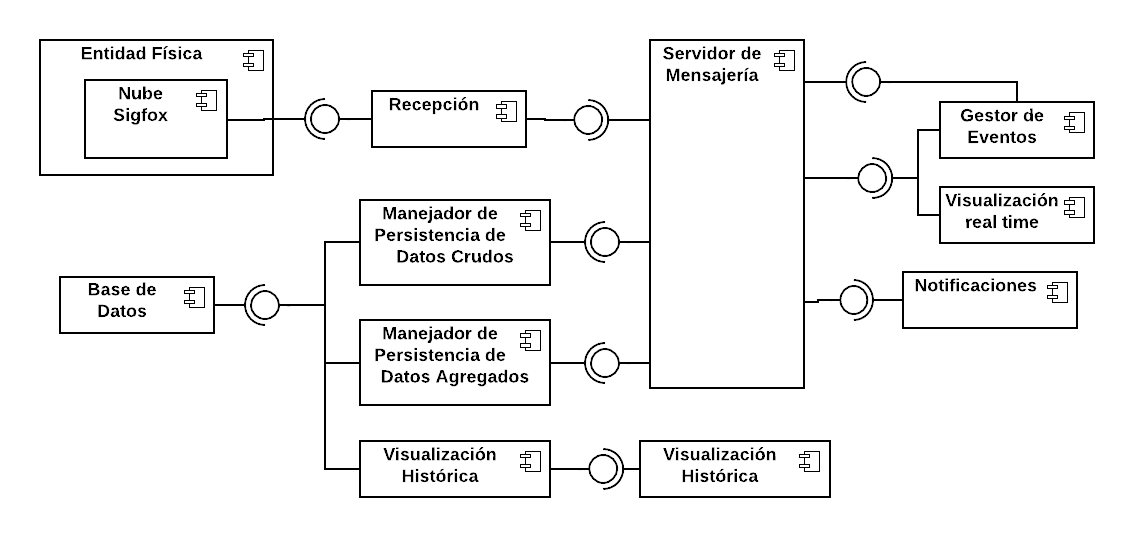
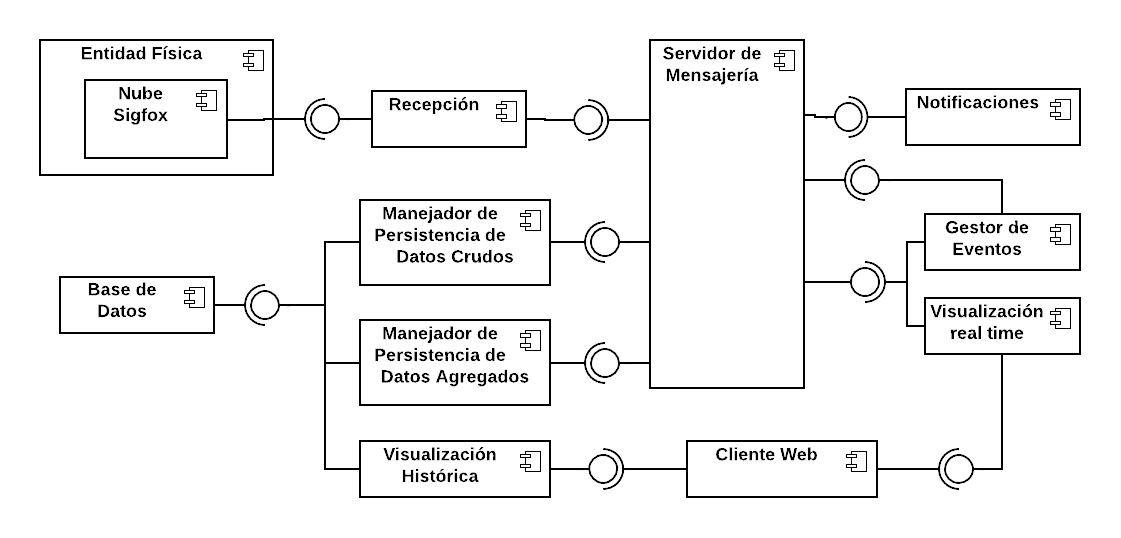
finished crude-data, started event-manager

diff --git a/crude-data/index.js b/crude-data/index.js
@@ -1,42 +1,69 @@
 require('dotenv').config()
 
-const rfs = require('rotating-file-stream')
-const morgan = require('morgan')
+const fs = require('fs')
 
-const { LOG_DIRECTORY } = require('./config')
-
-const pad = (num) => {
-  return (num > 9 ? '' : '0') + num
-}
-
-const generator = (time, index) => {
-  if (!time) return 'tmp.log'
-  else {
-    const year = time.getFullYear()
-    const month = pad(time.getMonth() + 1)
-    const day = pad(time.getDate())
-    const hour = pad(time.getHours())
-    const minute = pad(time.getMinutes())
-
-    return `${year}/${month}/${year}-${month}-${day}-${hour}-${minute}_${index}.log`
-  }
-}
+const { LOG_DIRECTORY, KAFKA_HOST, KAFKA_PORT, KAFKA_TOPIC,
+  INFLUX_DB_DATABASE, INFLUX_DB_HOST, INFLUX_DB_PORT,
+  INFLUX_DB_USERNAME, INFLUX_DB_PASSWORD, INFLUX_DB_PROTOCOL } = require('./config')
 
 fs.existsSync(LOG_DIRECTORY) || fs.mkdirSync(LOG_DIRECTORY)
-const accessLogStream = rfs(generator, {
-  size: '10M',
-  interval: '1d',
-  initialRotation: true,
-  rotationTime: true,
-  path: LOG_DIRECTORY
+
+const Influx = require('influx')
+
+const influx = new Influx.InfluxDB({
+  database: INFLUX_DB_DATABASE,
+  host: INFLUX_DB_HOST,
+  port: INFLUX_DB_PORT,
+  username: INFLUX_DB_USERNAME,
+  password: INFLUX_DB_PASSWORD,
+  protocol: INFLUX_DB_PROTOCOL
+}, {
+  schema: [ {
+    measurement: 'level',
+    fields: {
+      value: Influx.FieldType.FLOAT
+    },
+    tags: [
+      'sensorId'
+    ]
+  } ]
 })
 
-app.use(morgan(':date[iso] :method :url :status - :response-time ms'))
-app.use(morgan(':date[iso] :method :url :status - :response-time ms', { stream: accessLogStream }))
+const Kafka = require('node-rdkafka')
 
-const routes = fs.readdirSync('./routes')
-routes.forEach(routeStr => {
-  const routeName = routeStr.slice(0, -3)
-  const route = require('./routes/' + routeName)
-  app.use('/' + routeName, route)
-})
+const consumer = new Kafka.KafkaConsumer({
+  'group.id': 'kafka',
+  'metadata.broker.list': `${KAFKA_HOST}:${KAFKA_PORT}`
+}, {})
+
+const { log } = require('./functions')
+
+consumer.connect()
+
+consumer
+  .on('ready', () => {
+    consumer.subscribe([KAFKA_TOPIC])
+    consumer.consume()
+  })
+  .on('data', async (data) => {
+    try {
+      log.info(data.value.toString())
+      const { value: valueMsg } = data
+
+      const message = valueMsg.toString()
+      const parts = message.split('_$_')
+      const sensorId = parts[0]
+      const measurementType = parts[1]
+      const value = Number(parts[2])
+      const timestamp = Number(parts[3])
+
+      await influx.writePoints([{
+        measurement: measurementType,
+        tags: { sensorId },
+        fields: { value },
+        timestamp
+      }])
+    } catch (e) {
+      log.error(e.message)
+    }
+  })

diff --git a/old-backend/logic/event.js b/old-backend/logic/event.js
@@ -7,7 +7,7 @@ const { sendEventStartAlarm } = require('./alarm')
 module.exports = {
   findAllEvents: () => {
     return new Promise((resolve, reject) => {
-      MongoClient.connect(MONGODB_URI,{ useNewUrlParser: true }, (err, client) => {
+      MongoClient.connect(MONGODB_URI, { useNewUrlParser: true }, (err, client) => {
         if (err) reject(err)
         else {
           let Events = client.db().collection('Event')
@@ -23,7 +23,7 @@ module.exports = {
 
   findMostRecentEvent: () => {
     return new Promise((resolve, reject) => {
-      MongoClient.connect(MONGODB_URI,{ useNewUrlParser: true }, async (err, client) => {
+      MongoClient.connect(MONGODB_URI, { useNewUrlParser: true }, async (err, client) => {
         if (err) reject(err)
         else {
           let Events = client.db().collection('Event')
@@ -37,7 +37,7 @@ module.exports = {
 
   endEventAndCreateOne: (lastEventData, newEventData) => {
     return new Promise((resolve, reject) => {
-      MongoClient.connect(MONGODB_URI,{ useNewUrlParser: true }, async (err, client) => {
+      MongoClient.connect(MONGODB_URI, { useNewUrlParser: true }, async (err, client) => {
         if (err) reject(err)
         else {
           const { _id, finishDate, inputMeasurements, outputMeasurements } = lastEventData
@@ -86,7 +86,7 @@ module.exports = {
             startDate, lastMeasurementDate: startDate
           })
 
-          //await sendEventStartAlarm()
+          // await sendEventStartAlarm()
           client.close()
           resolve()
         }
@@ -96,7 +96,7 @@ module.exports = {
 
   updateLastMeasurementDate: (eventToUpdate) => {
     return new Promise((resolve, reject) => {
-      MongoClient.connect(MONGODB_URI,{ useNewUrlParser: true }, async (err, client) => {
+      MongoClient.connect(MONGODB_URI, { useNewUrlParser: true }, async (err, client) => {
         if (err) reject(err)
         else {
           let Events = client.db().collection('Event')

diff --git a/event-manager/index.js b/event-manager/index.js
@@ -1,0 +1,41 @@
+require('dotenv').config()
+
+const fs = require('fs')
+
+const { LOG_DIRECTORY, KAFKA_HOST, KAFKA_PORT, KAFKA_TOPIC } = require('./config')
+
+fs.existsSync(LOG_DIRECTORY) || fs.mkdirSync(LOG_DIRECTORY)
+
+const Kafka = require('node-rdkafka')
+
+const consumer = new Kafka.KafkaConsumer({
+  'group.id': 'kafka',
+  'metadata.broker.list': `${KAFKA_HOST}:${KAFKA_PORT}`
+}, {})
+
+const { log, findMostRecentEvent, endEventAndCreateOne, updateLastMeasurementDate } = require('./functions')
+
+consumer.connect()
+
+consumer
+  .on('ready', () => {
+    consumer.subscribe([KAFKA_TOPIC])
+    consumer.consume()
+  })
+  .on('data', async (data) => {
+    try {
+      log.info(data.value.toString())
+      const { value: valueMsg } = data
+
+      const message = valueMsg.toString()
+      const parts = message.split('_$_')
+      const timestamp = Number(parts[3])
+
+      const { _id, lastMeasurementDate: mostRecentEventLastMeasurementDate } = await findMostRecentEvent()
+
+      if (mostRecentEventLastMeasurementDate + 1000000000 * 60 * 30 < timestamp) await endEventAndCreateOne(_id, timestamp)
+      else await updateLastMeasurementDate(_id, timestamp)
+    } catch (e) {
+      log.error(e.message)
+    }
+  })

diff --git a/crude-data/config.js b/crude-data/config.js
@@ -1,3 +1,4 @@
+const isDev = !!process.env.DEV
 
 module.exports = {
   PORT: process.env.PORT,
@@ -6,5 +7,13 @@ module.exports = {
   SENSOR_SECRET_TOKEN: process.env.SENSOR_SECRET_TOKEN,
   KAFKA_HOST: process.env.KAFKA_HOST,
   KAFKA_PORT: process.env.KAFKA_PORT,
-  KAFKA_TOPIC: process.env.KAFKA_TOPIC
+  KAFKA_TOPIC: process.env.KAFKA_TOPIC,
+
+  INFLUX_DB_URL: isDev ? process.env.INFLUX_DB_URL_DEV : process.env.INFLUX_DB_URL,
+  INFLUX_DB_DATABASE: isDev ? process.env.INFLUX_DB_DATABASE_DEV : process.env.INFLUX_DB_DATABASE,
+  INFLUX_DB_HOST: isDev ? process.env.INFLUX_DB_HOST_DEV : process.env.INFLUX_DB_HOST,
+  INFLUX_DB_PORT: isDev ? process.env.INFLUX_DB_PORT_DEV : process.env.INFLUX_DB_PORT,
+  INFLUX_DB_USERNAME: isDev ? process.env.INFLUX_DB_USERNAME_DEV : process.env.INFLUX_DB_USERNAME,
+  INFLUX_DB_PASSWORD: isDev ? process.env.INFLUX_DB_PASSWORD_DEV : process.env.INFLUX_DB_PASSWORD,
+  INFLUX_DB_PROTOCOL: isDev ? process.env.INFLUX_DB_PROTOCOL_DEV : process.env.INFLUX_DB_PROTOCOL
 }

diff --git a/crude-data/functions/index.js b/crude-data/functions/index.js
@@ -1,0 +1,20 @@
+var bunyan = require('bunyan')
+var RotatingFileStream = require('bunyan-rotating-file-stream')
+
+const { LOG_DIRECTORY } = require('../config')
+
+const log = bunyan.createLogger({
+  name: 'log',
+  streams: [{
+    stream: new RotatingFileStream({
+      path: `${LOG_DIRECTORY}/log.log`,
+      period: '1d',
+      rotateExisting: true,
+      threshold: '10m'
+    })
+  }]
+})
+
+module.exports = {
+  log
+}

diff --git a/event-manager/functions/index.js b/event-manager/functions/index.js
@@ -1,0 +1,20 @@
+var bunyan = require('bunyan')
+var RotatingFileStream = require('bunyan-rotating-file-stream')
+
+const { LOG_DIRECTORY } = require('../config')
+
+const log = bunyan.createLogger({
+  name: 'log',
+  streams: [{
+    stream: new RotatingFileStream({
+      path: `${LOG_DIRECTORY}/log.log`,
+      period: '1d',
+      rotateExisting: true,
+      threshold: '10m'
+    })
+  }]
+})
+
+module.exports = {
+  log
+}

diff --git a/reception/tools/index.js b/reception/tools/index.js
@@ -14,6 +14,7 @@ module.exports = {
       try {
         const message = `${sensorId}_$_${measurementType}_$_${val}_$_${ts}`
         producer.produce(KAFKA_TOPIC, null, Buffer.from(message))
+        producer.disconnect()
       } catch (e) {
         console.error('A problem occurred when sending our message')
         console.error(e)

diff --git a/event-manager/config.js b/event-manager/config.js
@@ -1,0 +1,11 @@
+
+module.exports = {
+  PORT: process.env.PORT,
+  LOG_DIRECTORY: process.env.LOG_DIRECTORY,
+
+  KAFKA_HOST: process.env.KAFKA_HOST,
+  KAFKA_PORT: process.env.KAFKA_PORT,
+  KAFKA_TOPIC: process.env.KAFKA_TOPIC,
+
+  MONGODB_URI: process.env.MONGODB_URI
+}
